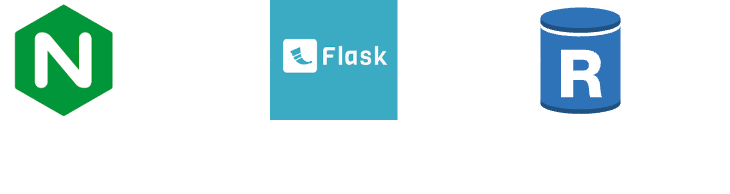
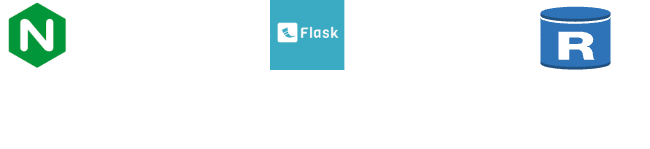
adding README.md

Changed region(s): [[0.7385, 0.0268, 0.9538, 0.5906], [0.3692, 0.0, 0.5538, 0.6443], [0.0, 0.0268, 0.1538, 0.5906]]

diff --git a/README.md b/README.md
@@ -2,7 +2,7 @@
 
 ## Architecture Diagram
 
-![diagram](files/diag1.png)
+![diagram](files/diagsm.png)
 
 ## Aplication Details
 Simple API microservice which have nginx as frontend app and passes traffic to flask app which will store name and email to the backend RDS database
